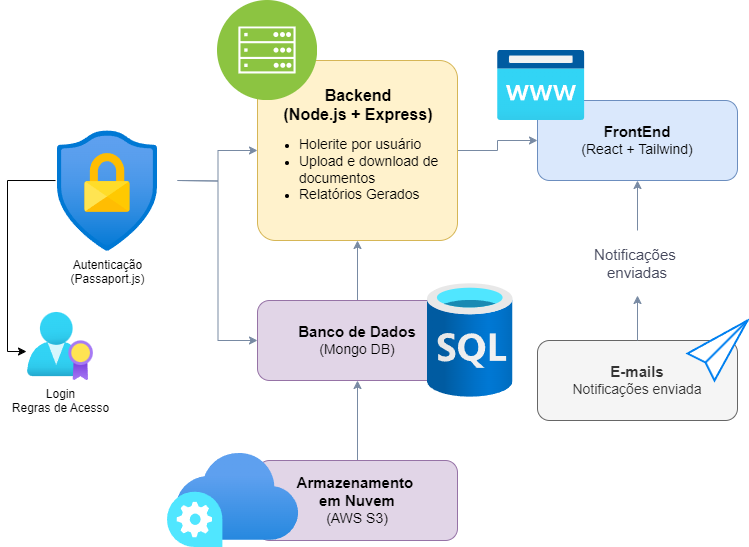
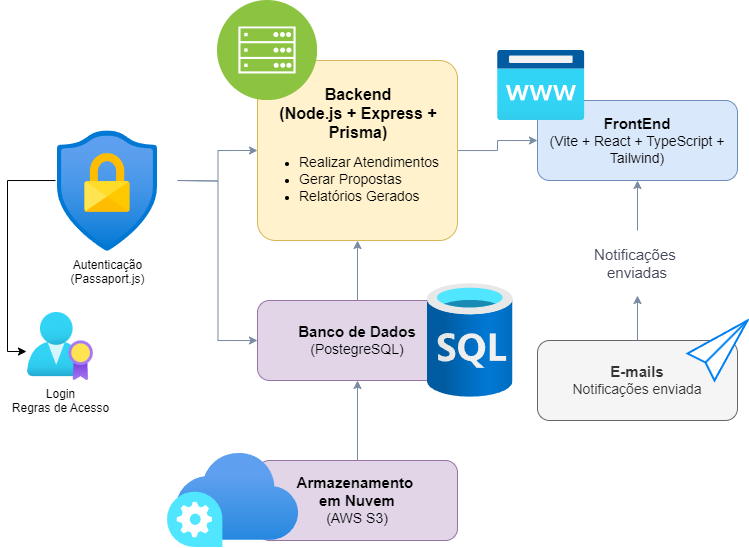
layout Project Model Canva

diff --git a/documentos/02-Especificação do Projeto.md b/documentos/02-Especificação do Projeto.md
@@ -30,6 +30,9 @@ Desenvolver uma plataforma online chamada **TecSolutions**, que permita o gerenc
 
 > Um diagrama de arquitetura será criado para representar a interação entre os módulos da plataforma.
 
+![Diagrama Arquitetura](https://raw.githubusercontent.com/v4gn32/tecsolutions/main/documentos/img/Diagrama-Arquitetura.png)
+
+
 ---
 
 # 💰 Estrutura de Custos — Projeto TecSolutions
